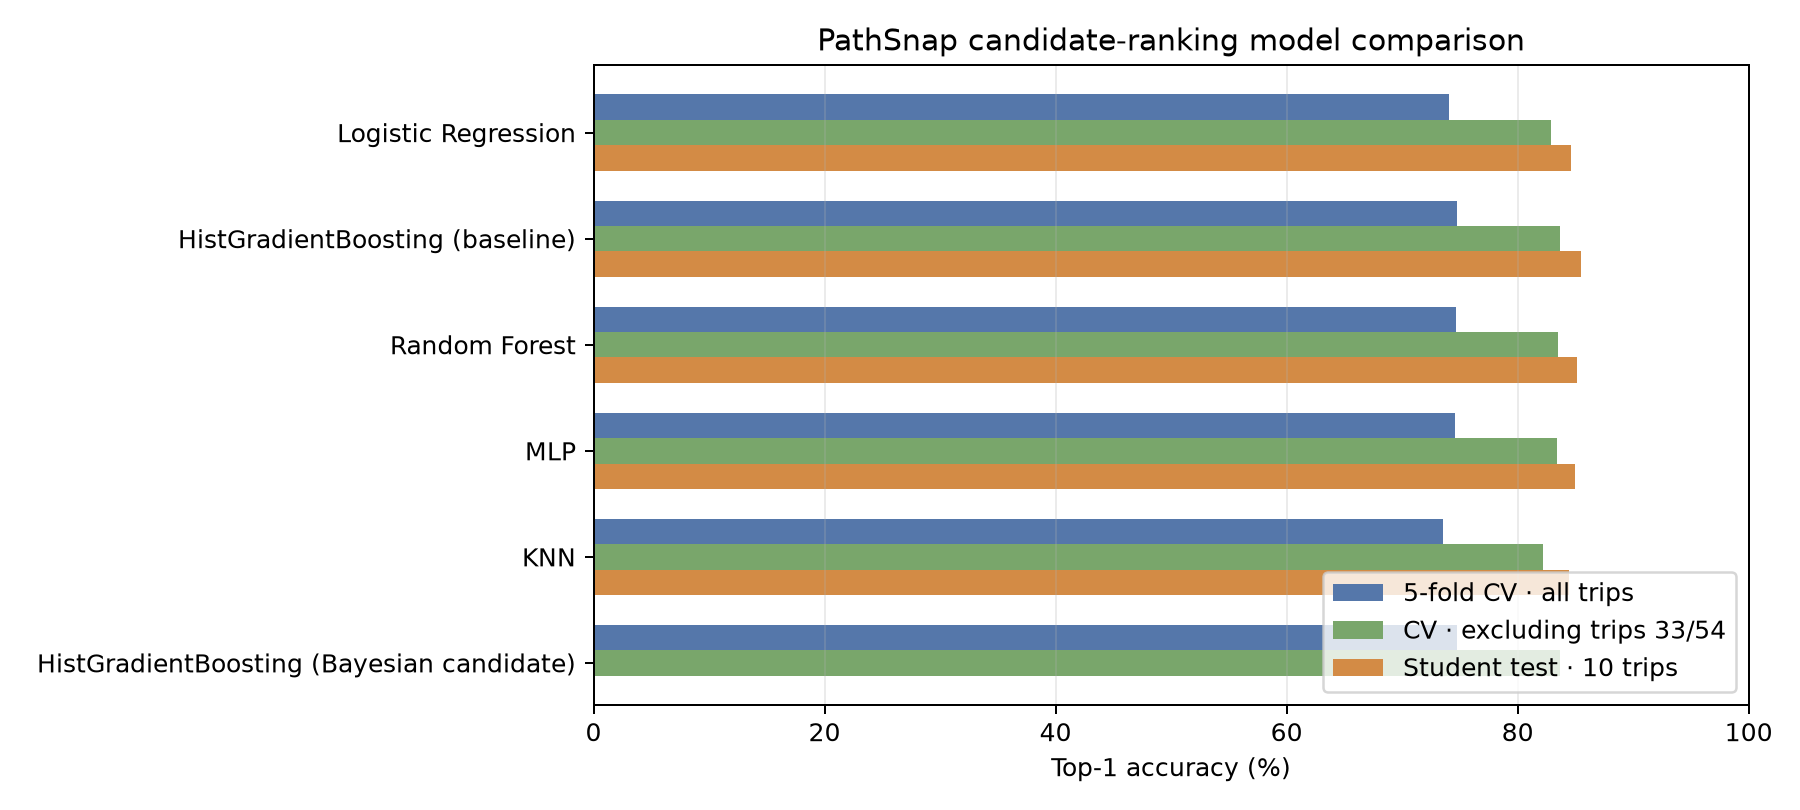
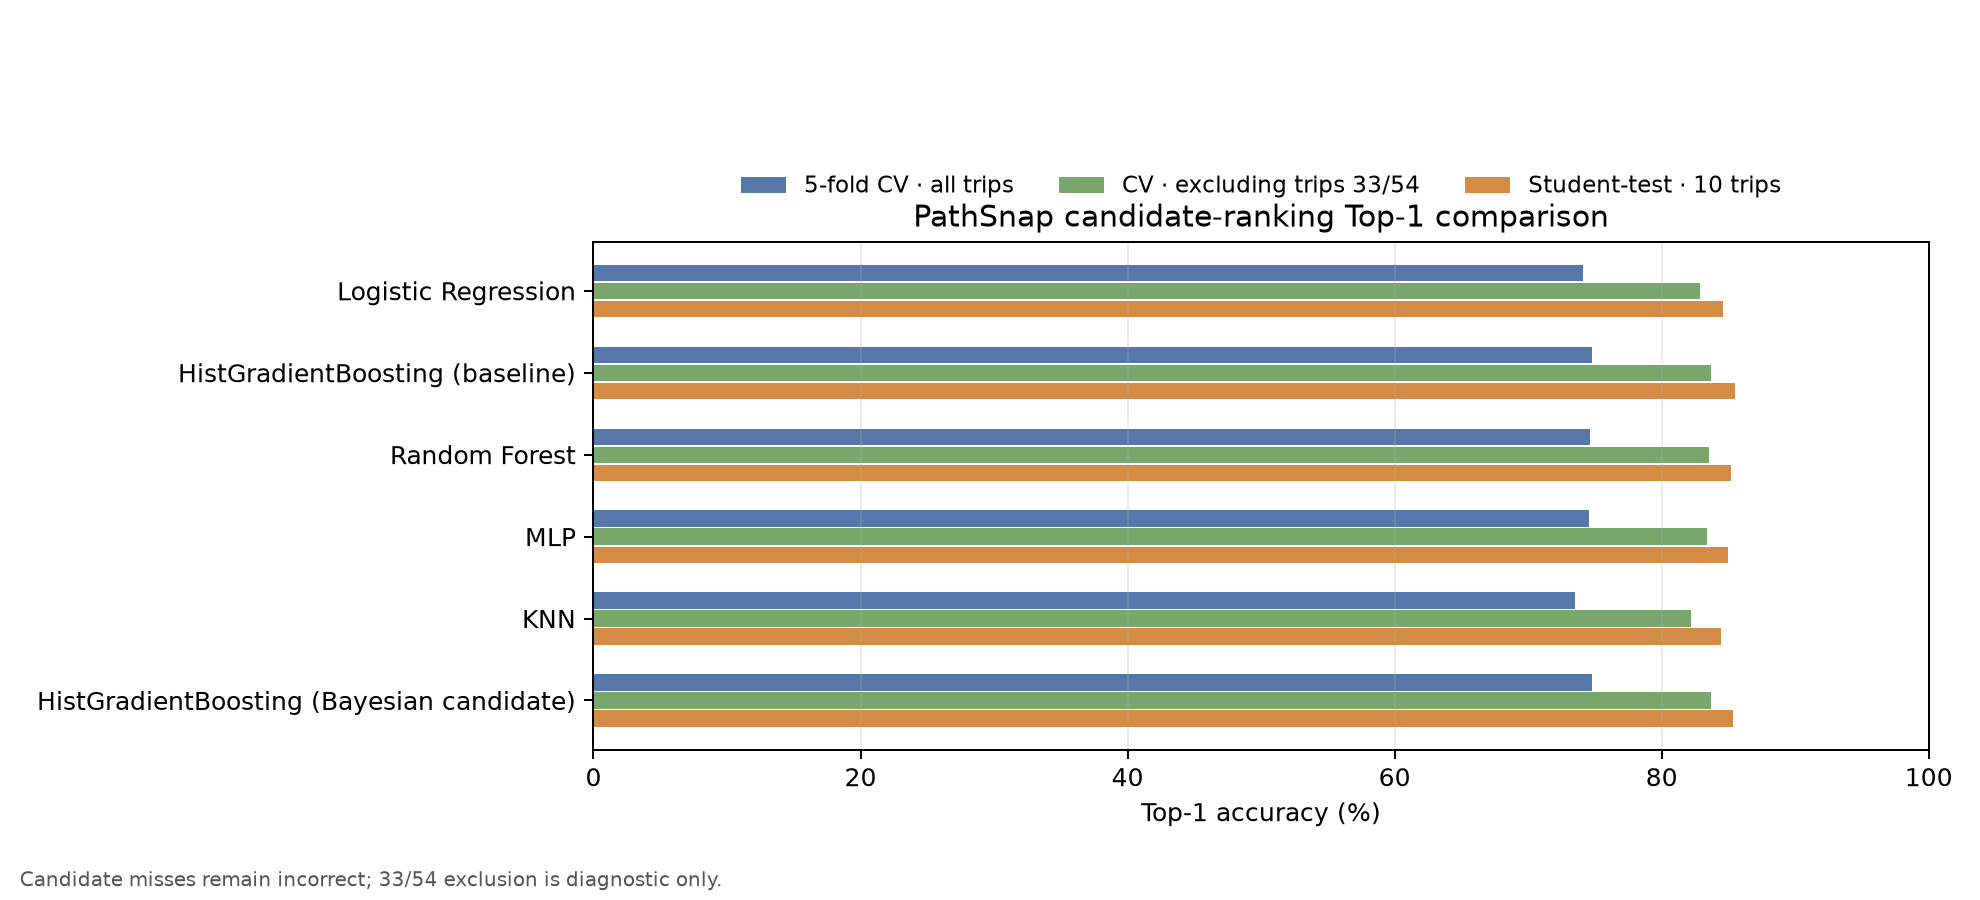
Add model comparison metric plots

diff --git a/models/build_model_comparison.py b/models/build_model_comparison.py
@@ -1,4 +1,4 @@
-"""Assemble the shared model comparison CSV and Top-1 chart from run outputs."""
+"""Assemble the shared model comparison CSV and metric figures."""
 from __future__ import annotations
 
 from pathlib import Path
@@ -10,8 +10,12 @@ import pandas as pd
 
 ROOT = Path(__file__).resolve().parents[1]
 RESULTS = ROOT / "results"
-OUT_CSV = RESULTS / "models/model_comparison_all.csv"
-OUT_PNG = RESULTS / "models/model_comparison_top1.png"
+OUT_DIR = RESULTS / "models"
+OUT_CSV = OUT_DIR / "model_comparison_all.csv"
+OUT_TOP1 = OUT_DIR / "model_comparison_top1.png"
+OUT_MACRO_F1 = OUT_DIR / "model_comparison_macro_f1.png"
+OUT_STUDENT = OUT_DIR / "model_comparison_student_test.png"
+OUT_LOG_LOSS = OUT_DIR / "model_comparison_log_loss.png"
 
 RUNS = {
     "Logistic Regression": RESULTS / "models/run_20261118_115731_logistic_regression_hist_gradient_boosting",
@@ -20,21 +24,20 @@ RUNS = {
     "MLP": RESULTS / "models/random_forest_mlp_20261118",
     "KNN": RESULTS / "models/knn_distance_weighted_20261118",
 }
+MODEL_KEYS = {
+    "Logistic Regression": "logistic_regression",
+    "HistGradientBoosting (baseline)": "hist_gradient_boosting",
+    "Random Forest": "random_forest",
+    "MLP": "mlp",
+    "KNN": "knn_distance_weighted",
+}
 
 
 def row_for(name: str, run_dir: Path) -> dict:
     cv = pd.read_csv(run_dir / "model_comparison_cv.csv")
     student = pd.read_csv(run_dir / "model_comparison_student_test.csv")
-    lookup = {
-        "Logistic Regression": "logistic_regression",
-        "HistGradientBoosting (baseline)": "hist_gradient_boosting",
-        "Random Forest": "random_forest",
-        "MLP": "mlp",
-        "KNN": "knn_distance_weighted",
-    }
-    model = lookup[name]
-    cv_model = cv.loc[cv["model"] == model]
-    student_model = student.loc[student["model"] == model]
+    cv_model = cv.loc[cv["model"] == MODEL_KEYS[name]]
+    student_model = student.loc[student["model"] == MODEL_KEYS[name]]
     cv_all = cv_model.loc[cv_model["evaluation_slice"] == "all_trips"].iloc[0]
     cv_clean = cv_model.loc[cv_model["evaluation_slice"] == "excluding_33_54"].iloc[0]
     test_all = student_model.loc[student_model["evaluation_slice"] == "all_trips"].iloc[0]
@@ -55,68 +58,104 @@ def row_for(name: str, run_dir: Path) -> dict:
     }
 
 
-def main() -> None:
-    rows = [row_for(name, path) for name, path in RUNS.items()]
+def plot_bars(frame: pd.DataFrame, series: list[tuple[str, str]], output: Path,
+              title: str, xlabel: str, *, percent: bool, note: str) -> None:
+    labels = frame["model"].tolist()
+    y = list(range(len(labels)))
+    height = min(0.22, 0.68 / len(series))
+    offsets = [(i - (len(series) - 1) / 2) * height for i in range(len(series))]
+    colors = ["#5577aa", "#79a66b", "#d38b45"]
+    scale = 100 if percent else 1
+    fig, ax = plt.subplots(figsize=(11, max(5, len(labels) * 0.72)))
+    for i, (field, label) in enumerate(series):
+        values = pd.to_numeric(frame[field], errors="coerce") * scale
+        ax.barh([v + offsets[i] for v in y], values, height=height * .9,
+                label=label, color=colors[i % len(colors)])
+    ax.set_yticks(y, labels)
+    ax.invert_yaxis()
+    ax.set_xlabel(xlabel)
+    ax.set_title(title)
+    ax.grid(axis="x", alpha=.25)
+    if percent:
+        ax.set_xlim(0, 100)
+    else:
+        values = pd.to_numeric(frame[[column for column, _ in series]].stack(), errors="coerce")
+        maximum = values.max()
+        ax.set_xlim(0, float(maximum) * 1.18 if pd.notna(maximum) and maximum > 0 else 1)
+    ax.legend(loc="upper center", bbox_to_anchor=(.5, 1.17),
+              ncol=len(series), fontsize=9, frameon=False)
+    fig.text(.01, .01, note, ha="left", va="bottom", fontsize=8, color="#555555")
+    fig.tight_layout(rect=(0, .05, 1, .88))
+    fig.savefig(output, dpi=180)
+    plt.close(fig)
+
+
+def add_tuned_candidate(rows: list[dict]) -> None:
     bayes_dir = RESULTS / "bayes/hgb_bayesopt_20261118"
-    tuned_student_path = RESULTS / "bayes/selected_hgb_student_test.csv"
-    tuned_cv_path = bayes_dir / "best_5fold_cv.csv"
-    selection_path = bayes_dir / "selection_decision.json"
-    if tuned_cv_path.exists():
-        cv = pd.read_csv(tuned_cv_path)
-        cv_all = cv.loc[cv["evaluation_slice"] == "all_trips"].iloc[0]
-        cv_clean = cv.loc[cv["evaluation_slice"] == "excluding_33_54"].iloc[0]
-        selection = {}
-        if selection_path.exists():
-            import json
-            selection = json.loads(selection_path.read_text())
-        test_fields = {}
-        if (tuned_student_path.exists() and
-                selection.get("selected_model") == "hist_gradient_boosting_bayes_optimized"):
-            test = pd.read_csv(tuned_student_path)
-            test_all = test.loc[test["evaluation_slice"] == "all_trips"].iloc[0]
-            test_fields = {
-                "student_test_top1": test_all["top1_accuracy"],
-                "student_test_macro_f1": test_all["macro_f1"],
-                "student_test_candidate_log_loss": test_all["candidate_log_loss"],
-                "full_train_fit_seconds": test_all["fit_seconds_full_train"],
-                "student_test_inference_seconds": test_all["inference_seconds_student_test"],
-                "student_test_candidate_miss_rate": test_all["candidate_miss_rate"],
-            }
-        rows.append({
-            "model": "HistGradientBoosting (Bayesian candidate)",
-            "cv_top1_all_trips": cv_all["top1_accuracy"],
-            "cv_top1_excluding_33_54": cv_clean["top1_accuracy"],
-            "cv_macro_f1_all_trips": cv_all["macro_f1"],
-            "cv_macro_f1_excluding_33_54": cv_clean["macro_f1"],
-            "cv_candidate_log_loss": cv_all["candidate_log_loss"],
-            "source_run": "results/bayes",
-            **test_fields,
-        })
+    cv_path = bayes_dir / "best_5fold_cv.csv"
+    test_path = RESULTS / "bayes/tuned_hgb_student_test.csv"
+    if not cv_path.exists():
+        return
+    cv = pd.read_csv(cv_path)
+    cv_all = cv.loc[cv["evaluation_slice"] == "all_trips"].iloc[0]
+    cv_clean = cv.loc[cv["evaluation_slice"] == "excluding_33_54"].iloc[0]
+    fields = {}
+    if test_path.exists():
+        test = pd.read_csv(test_path)
+        test_all = test.loc[test["evaluation_slice"] == "all_trips"].iloc[0]
+        fields = {
+            "student_test_top1": test_all["top1_accuracy"],
+            "student_test_macro_f1": test_all["macro_f1"],
+            "student_test_candidate_log_loss": test_all["candidate_log_loss"],
+            "full_train_fit_seconds": test_all["fit_seconds_full_train"],
+            "student_test_inference_seconds": test_all["inference_seconds_student_test"],
+            "student_test_candidate_miss_rate": test_all["candidate_miss_rate"],
+        }
+    rows.append({
+        "model": "HistGradientBoosting (Bayesian candidate)",
+        "cv_top1_all_trips": cv_all["top1_accuracy"],
+        "cv_top1_excluding_33_54": cv_clean["top1_accuracy"],
+        "cv_macro_f1_all_trips": cv_all["macro_f1"],
+        "cv_macro_f1_excluding_33_54": cv_clean["macro_f1"],
+        "cv_candidate_log_loss": cv_all["candidate_log_loss"],
+        "source_run": "results/bayes",
+        **fields,
+    })
+
+
+def main() -> None:
+    OUT_DIR.mkdir(parents=True, exist_ok=True)
+    rows = [row_for(name, run_dir) for name, run_dir in RUNS.items()]
+    add_tuned_candidate(rows)
     frame = pd.DataFrame(rows)
     frame.to_csv(OUT_CSV, index=False)
 
-    labels = frame["model"].tolist()
-    y = range(len(labels))
-    h = 0.24
-    fig, ax = plt.subplots(figsize=(10, max(4.5, len(labels) * 0.7)))
-    ax.barh([v - h for v in y], frame["cv_top1_all_trips"] * 100,
-            height=h, label="5-fold CV · all trips", color="#5577aa")
-    ax.barh(list(y), frame["cv_top1_excluding_33_54"] * 100,
-            height=h, label="CV · excluding trips 33/54", color="#79a66b")
-    if frame["student_test_top1"].notna().any():
-        ax.barh([v + h for v in y], frame["student_test_top1"] * 100,
-                height=h, label="Student test · 10 trips", color="#d38b45")
-    ax.set_yticks(list(y), labels)
-    ax.invert_yaxis()
-    ax.set_xlabel("Top-1 accuracy (%)")
-    ax.set_title("PathSnap candidate-ranking model comparison")
-    ax.set_xlim(0, 100)
-    ax.grid(axis="x", alpha=0.25)
-    ax.legend(loc="lower right")
-    fig.tight_layout()
-    fig.savefig(OUT_PNG, dpi=180)
-    plt.close(fig)
-    print(f"Wrote {OUT_CSV.relative_to(ROOT)} and {OUT_PNG.relative_to(ROOT)}")
+    plot_bars(frame, [
+        ("cv_top1_all_trips", "5-fold CV · all trips"),
+        ("cv_top1_excluding_33_54", "CV · excluding trips 33/54"),
+        ("student_test_top1", "Student-test · 10 trips"),
+    ], OUT_TOP1, "PathSnap candidate-ranking Top-1 comparison", "Top-1 accuracy (%)",
+       percent=True, note="Candidate misses remain incorrect; 33/54 exclusion is diagnostic only.")
+    plot_bars(frame, [
+        ("cv_macro_f1_all_trips", "5-fold CV · all trips"),
+        ("cv_macro_f1_excluding_33_54", "CV · excluding trips 33/54"),
+        ("student_test_macro_f1", "Student-test · 10 trips"),
+    ], OUT_MACRO_F1, "PathSnap candidate-ranking Macro F1 comparison", "Macro F1 (%)",
+       percent=True, note="The trip 33/54 exclusion is diagnostic only; primary selection uses all trips.")
+    plot_bars(frame, [
+        ("student_test_top1", "Top-1 accuracy"),
+        ("student_test_macro_f1", "Macro F1"),
+    ], OUT_STUDENT, "Student-test model comparison (10 trips)", "Score (%)",
+       percent=True, note="All models use the same held-out student-test observations.")
+    plot_bars(frame, [
+        ("cv_candidate_log_loss", "5-fold CV · all trips"),
+        ("student_test_candidate_log_loss", "Student-test · 10 trips"),
+    ], OUT_LOG_LOSS, "Candidate probability log-loss comparison", "Binary candidate log loss (lower is better)",
+       percent=False, note="Tuned-candidate student-test metrics are post-selection and did not affect model choice.")
+
+    print(f"Wrote {OUT_CSV.relative_to(ROOT)}")
+    for path in (OUT_TOP1, OUT_MACRO_F1, OUT_STUDENT, OUT_LOG_LOSS):
+        print(f"Wrote {path.relative_to(ROOT)}")
 
 
 if __name__ == "__main__":

diff --git a/models/export_selected_model.py b/models/export_selected_model.py
@@ -37,6 +37,7 @@ STUDENT_OBS_PATH = ROOT / "data/processed/obs_student_test.parquet"
 ARTIFACT_DIR = ROOT / "models/artifacts"
 OPT_DIR = ROOT / "results/bayes/hgb_bayesopt_20261118"
 TEST_OUTPUT = ROOT / "results/bayes/selected_hgb_student_test.csv"
+TUNED_TEST_OUTPUT = ROOT / "results/bayes/tuned_hgb_student_test.csv"
 
 
 def main() -> None:
@@ -97,8 +98,22 @@ def main() -> None:
         train, student, student_obs, features, OUTLIER_TRIPS,
     )
     pd.DataFrame(student_rows).to_csv(TEST_OUTPUT, index=False)
+
+    # The CV-based selection is already frozen. Evaluate the tuned candidate
+    # once on the held-out student-test partition only to complete the required
+    # baseline-vs-tuned comparison; these metrics do not change selection.
+    tuned_config = search_summary["best_config"]
+    tuned_pipeline, tuned_baseline = model_roster()["hist_gradient_boosting"]
+    tuned_pipeline.set_params(**{f"model__{name}": value for name, value in tuned_config.items()})
+    tuned_metadata = {**tuned_baseline, **tuned_config, "family": "boosting_bayes_optimized"}
+    tuned_rows, _ = evaluate_student(
+        "hist_gradient_boosting_bayes_optimized", tuned_pipeline, tuned_metadata,
+        train, student, student_obs, features, OUTLIER_TRIPS,
+    )
+    pd.DataFrame(tuned_rows).to_csv(TUNED_TEST_OUTPUT, index=False)
     print(f"Exported {artifact_path.relative_to(ROOT)}")
-    print(f"Saved one-time held-out student-test metrics to {TEST_OUTPUT.relative_to(ROOT)}")
+    print(f"Saved selected-model student-test metrics to {TEST_OUTPUT.relative_to(ROOT)}")
+    print(f"Saved post-selection tuned-candidate comparison to {TUNED_TEST_OUTPUT.relative_to(ROOT)}")
 
 
 if __name__ == "__main__":
